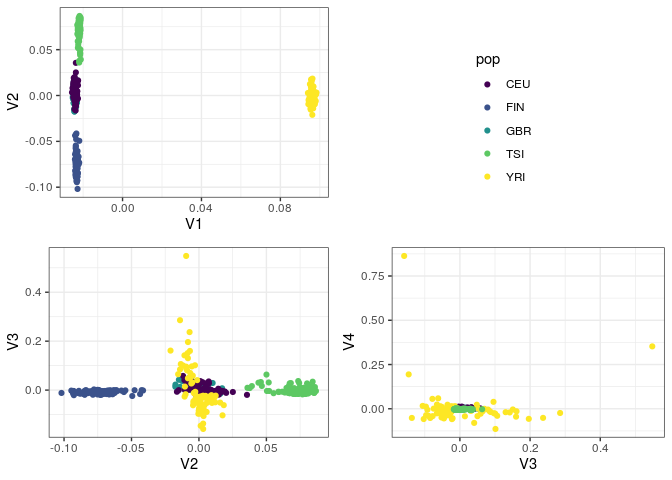
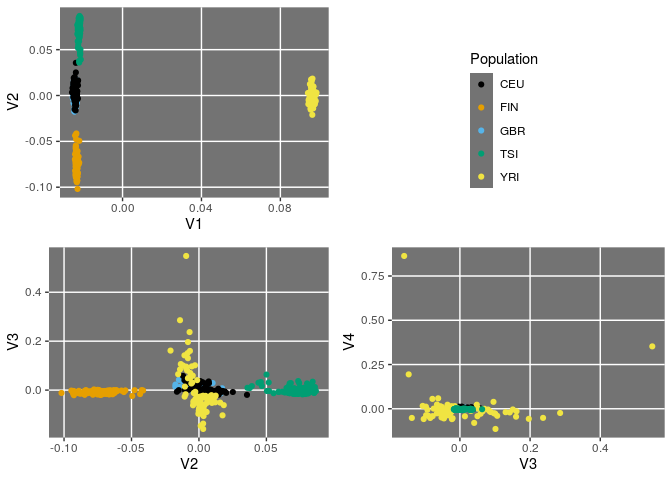
update minor aesthetic details

diff --git a/hla_herit.md b/hla_herit.md
@@ -1,4 +1,4 @@
-Exploratory data analysis
+Heritability
 ================
 
 ## Sample:
@@ -71,6 +71,7 @@ library(GENESIS)
 library(Biobase)
 library(cowplot)
 library(ggbeeswarm)
+library(ggthemes)
 ```
 
 ### Concatenate GDS files for all chromosomes
@@ -120,10 +121,10 @@ pca <- snpgdsPCA(gds, num.thread = 16L)
         using 16 threads
         # of principal components: 32
     CPU capabilities: Double-Precision SSE2
-    Fri Mar 12 21:23:07 2021    (internal increment: 8752)
-    [..................................................]  0%, ETC: ---        [==================================================] 100%, completed, 45s
-    Fri Mar 12 21:23:52 2021    Begin (eigenvalues and eigenvectors)
-    Fri Mar 12 21:23:52 2021    Done.
+    Wed Mar 17 20:53:34 2021    (internal increment: 8752)
+    [..................................................]  0%, ETC: ---        [==================================================] 100%, completed, 38s
+    Wed Mar 17 20:54:12 2021    Begin (eigenvalues and eigenvectors)
+    Wed Mar 17 20:54:12 2021    Done.
 
 ``` r
 pops <- read_tsv("/raid/genevol/heritability/hla_expression.tsv") %>%
@@ -139,18 +140,23 @@ pcadf <- as.data.frame(pca$eigenvect) %>%
 ``` r
 p1 <- ggplot(pcadf, aes(V1, V2, color = pop)) +
     geom_point() +
-    scale_color_viridis_d() +
-    theme_bw()
+    scale_color_colorblind() +
+    theme(panel.grid.minor = element_blank(),
+          panel.background = element_rect(fill = "grey45"),
+          legend.key = element_rect(fill = "grey45")) +
+    labs(color = "Population")
 
 p2 <- ggplot(pcadf, aes(V2, V3, color = pop)) +
     geom_point() +
-    scale_color_viridis_d() +
-    theme_bw()
+    scale_color_colorblind() +
+    theme(panel.grid.minor = element_blank(),
+          panel.background = element_rect(fill = "grey45"))
 
 p3 <- ggplot(pcadf, aes(V3, V4, color = pop)) +
     geom_point() +
-    scale_color_viridis_d() +
-    theme_bw()
+    scale_color_colorblind() +
+    theme(panel.grid.minor = element_blank(),
+          panel.background = element_rect(fill = "grey45"))
 
 p_legend <- get_legend(p1)
 
@@ -176,7 +182,7 @@ hla_expression <- read_tsv("/raid/genevol/heritability/hla_expression.tsv") %>%
 ggplot(hla_expression, aes(reorder(pop, tpm), tpm)) +
     geom_quasirandom(aes(color = pop), method = "smiley") +
     geom_boxplot(fill = NA, outlier.color = NA) +
-    scale_color_viridis_d() +
+    scale_color_colorblind() +
     theme_bw() +
     labs(x = NULL, y = "TPM")
 ```
@@ -311,9 +317,9 @@ grm_obj <- snpgdsGRM(pruned, method = "GCTA", num.thread = 16L)
         # of SNVs: 2,195,733
         using 16 threads
     CPU capabilities: Double-Precision SSE2
-    Fri Mar 12 21:24:00 2021    (internal increment: 8752)
-    [..................................................]  0%, ETC: ---        [==================================================] 100%, completed, 37s
-    Fri Mar 12 21:24:37 2021    Done.
+    Wed Mar 17 20:54:20 2021    (internal increment: 8752)
+    [..................................................]  0%, ETC: ---        [==================================================] 100%, completed, 39s
+    Wed Mar 17 20:54:59 2021    Done.
 
 We extract and rename the matrix
 
@@ -438,7 +444,7 @@ varCompCI(nullmod, prop = TRUE)
      collate  en_US.UTF-8                 
      ctype    en_US.UTF-8                 
      tz       America/Sao_Paulo           
-     date     2021-03-12                  
+     date     2021-03-17                  
     
     ─ Packages ───────────────────────────────────────────────────────────────────
      package          * version  date       lib source        
@@ -484,6 +490,7 @@ varCompCI(nullmod, prop = TRUE)
      GenomicRanges      1.42.0   2020-10-27 [1] Bioconductor  
      ggbeeswarm       * 0.6.0    2017-08-07 [1] CRAN (R 4.0.2)
      ggplot2          * 3.3.2    2020-06-19 [2] CRAN (R 4.0.2)
+     ggthemes         * 4.2.4    2021-01-20 [1] CRAN (R 4.0.2)
      glue               1.4.2    2020-08-27 [1] CRAN (R 4.0.2)
      gtable             0.3.0    2019-03-25 [2] CRAN (R 4.0.2)
      GWASExactHW        1.01     2013-01-05 [1] CRAN (R 4.0.2)
@@ -556,7 +563,6 @@ varCompCI(nullmod, prop = TRUE)
      usethis            2.0.1    2021-02-10 [1] CRAN (R 4.0.2)
      vctrs              0.3.6    2020-12-17 [1] CRAN (R 4.0.2)
      vipor              0.4.5    2017-03-22 [1] CRAN (R 4.0.2)
-     viridisLite        0.3.0    2018-02-01 [2] CRAN (R 4.0.2)
      withr              2.4.1    2021-01-26 [1] CRAN (R 4.0.2)
      xfun               0.21     2021-02-10 [1] CRAN (R 4.0.2)
      xml2               1.3.2    2020-04-23 [2] CRAN (R 4.0.2)
